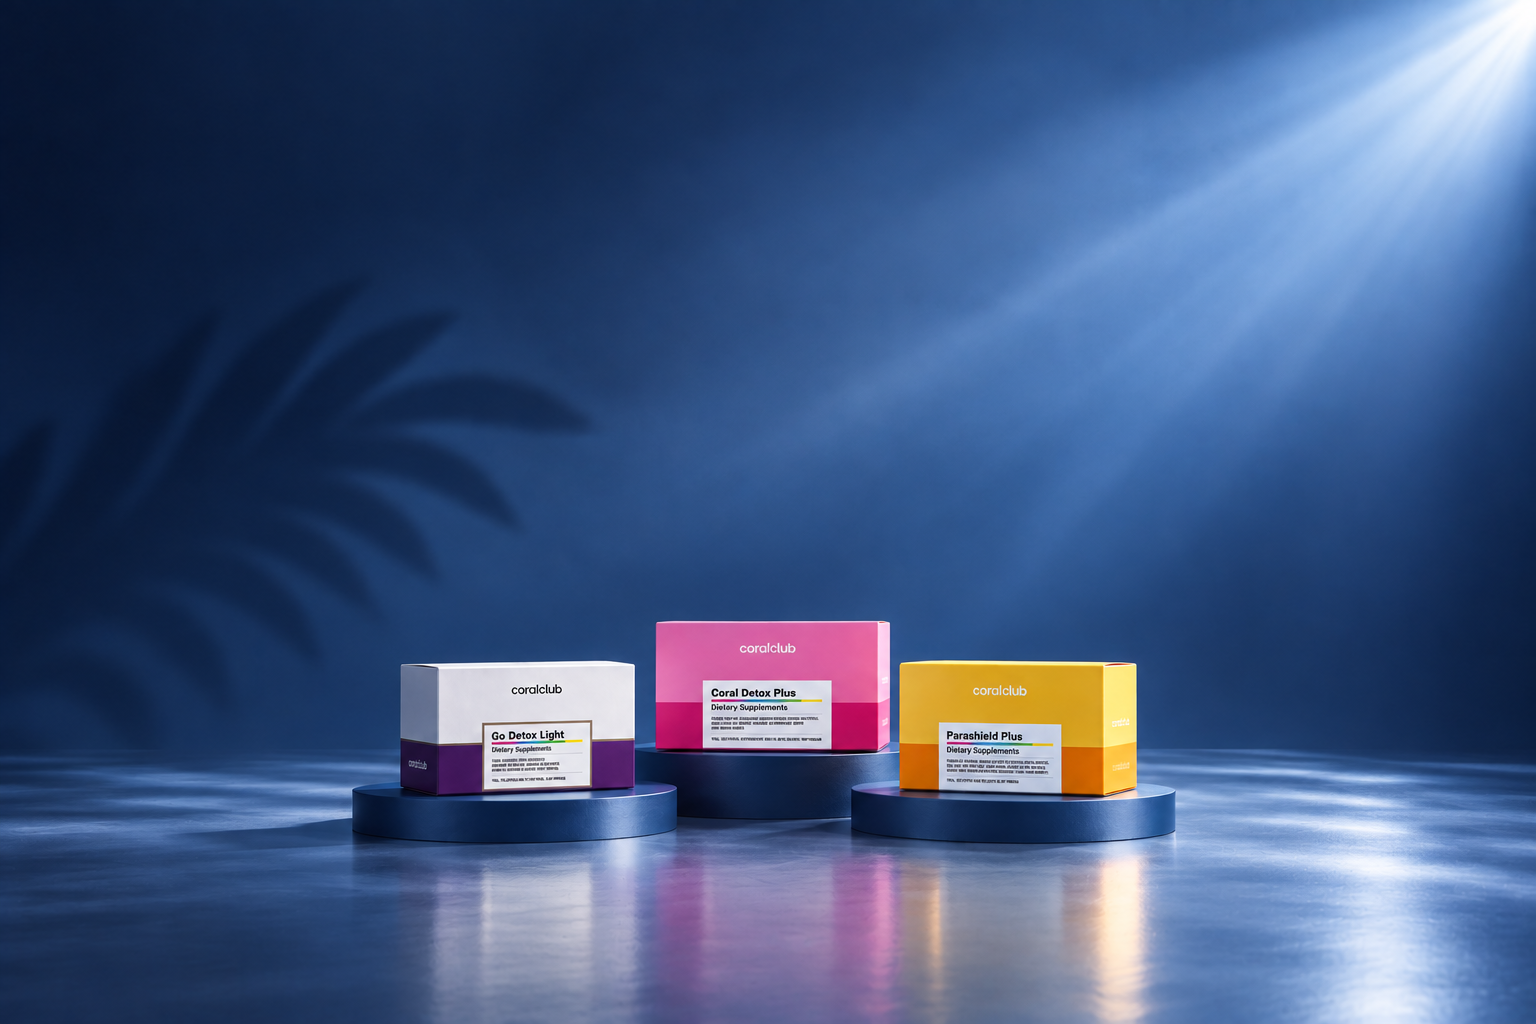
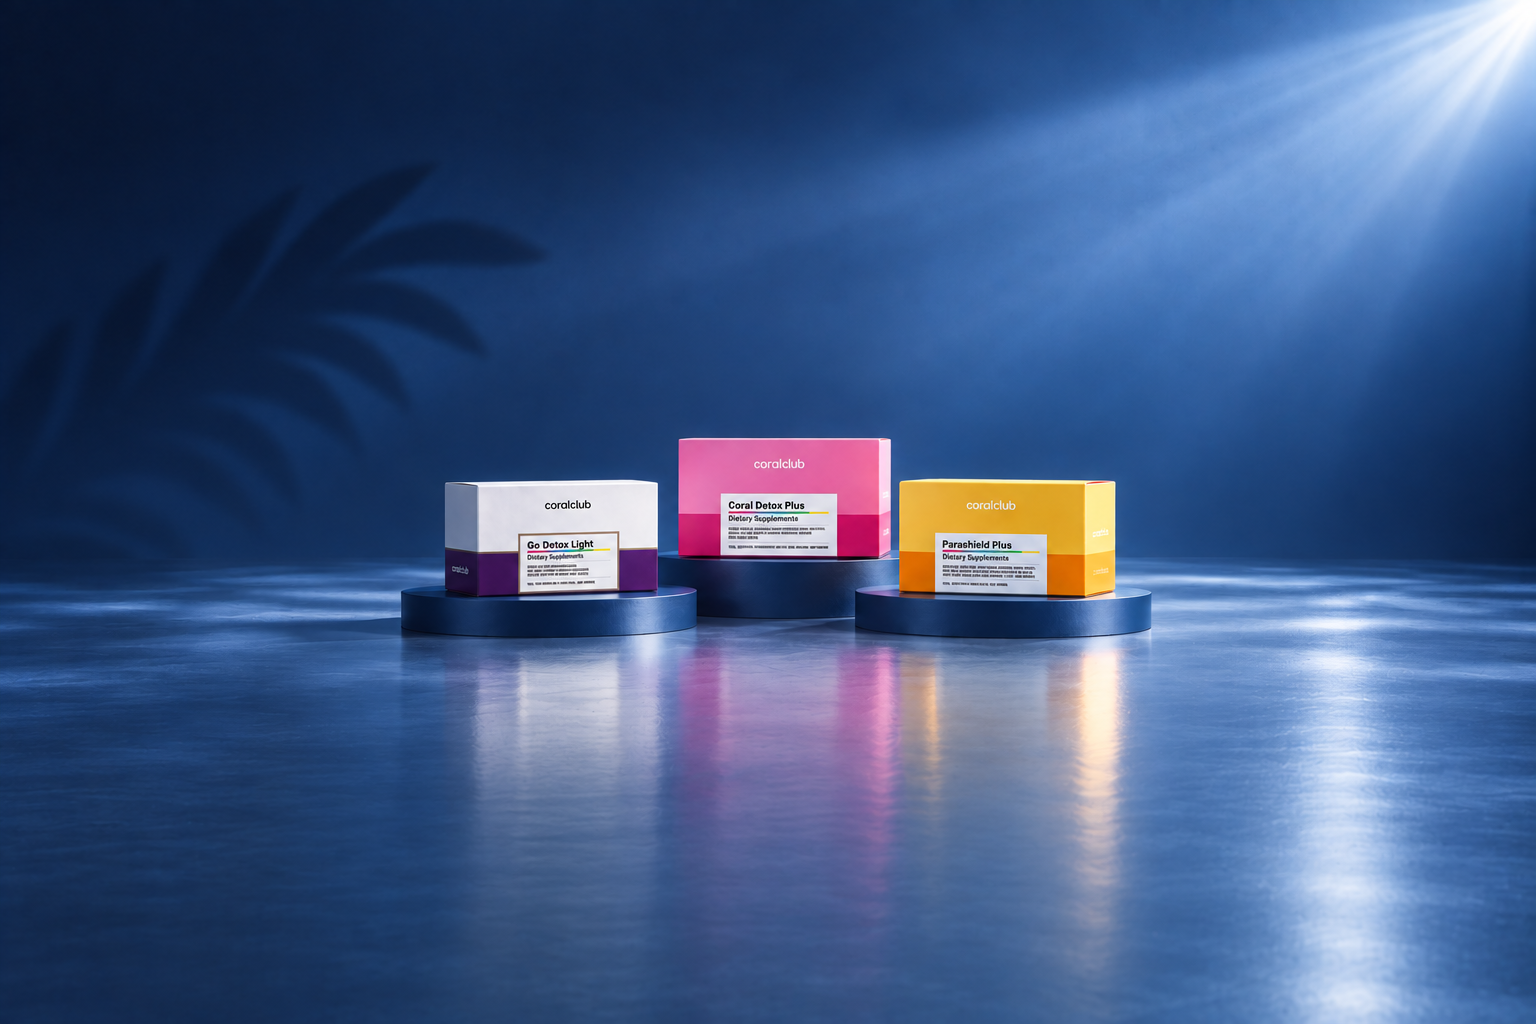
Hero: swipe between phases + dot indicators under the CTA
- Hero is now a client component with an optional `nav` prop: horizontal
  swipe on the panel moves to the prev/next phase, and a row of dot
  indicators (active dot elongated) sits under the CTA; dots are tappable.
- HomeView passes nav wired to usePhase().
- Re-copy img/hero2.png -> public/images/hero-restart.png (?v=2).

diff --git a/src/components/organisms/Hero.tsx b/src/components/organisms/Hero.tsx
@@ -1,4 +1,6 @@
-import type { ReactNode } from "react";
+"use client";
+
+import { useRef, type ReactNode, type TouchEvent } from "react";
 import Image from "next/image";
 import { BodyLong, Button, Container, Heading } from "@/components/ui";
 import styles from "./Hero.module.css";
@@ -8,22 +10,60 @@ export type HeroImage = {
   alt: string;
 };
 
+export type HeroNav = {
+  /** Total number of phases. */
+  count: number;
+  /** Index of the phase currently shown. */
+  activeIndex: number;
+  /** Jump to a phase by index. */
+  onSelect: (index: number) => void;
+};
+
 export type HeroProps = {
   title: ReactNode;
   body: ReactNode;
   /** Fills the panel as its background. */
   image: HeroImage;
   cta: { label: string; href: string };
+  /**
+   * When set, a horizontal swipe on the panel moves between phases and dot
+   * indicators appear under the CTA.
+   */
+  nav?: HeroNav;
 };
+
+const SWIPE_MIN = 44;
 
 /**
  * Hero — a panel whose background is the product photo, with white copy and
- * the primary call to action over it. Uses the base corner radius on the
- * bottom edge. Pair it with <SiteHeader /> above.
+ * the primary call to action over it. Pair it with <SiteHeader /> above.
+ * With `nav`, swipe left/right (or tap a dot) to change phase.
  */
-export function Hero({ title, body, image, cta }: HeroProps) {
+export function Hero({ title, body, image, cta, nav }: HeroProps) {
+  const start = useRef<{ x: number; y: number } | null>(null);
+
+  const onTouchStart = (e: TouchEvent) => {
+    const t = e.touches[0];
+    start.current = { x: t.clientX, y: t.clientY };
+  };
+
+  const onTouchEnd = (e: TouchEvent) => {
+    if (!nav || !start.current) return;
+    const t = e.changedTouches[0];
+    const dx = t.clientX - start.current.x;
+    const dy = t.clientY - start.current.y;
+    start.current = null;
+    if (Math.abs(dx) < SWIPE_MIN || Math.abs(dx) < Math.abs(dy) * 1.4) return;
+    const next = nav.activeIndex + (dx < 0 ? 1 : -1);
+    if (next >= 0 && next < nav.count) nav.onSelect(next);
+  };
+
   return (
-    <section className={styles.panel}>
+    <section
+      className={styles.panel}
+      onTouchStart={nav ? onTouchStart : undefined}
+      onTouchEnd={nav ? onTouchEnd : undefined}
+    >
       <Image
         className={styles.bg}
         src={image.src}
@@ -51,6 +91,24 @@ export function Hero({ title, body, image, cta }: HeroProps) {
           >
             {cta.label}
           </Button>
+
+          {nav && nav.count > 1 && (
+            <div className={styles.dots} role="tablist" aria-label="Phase">
+              {Array.from({ length: nav.count }).map((_, i) => (
+                <button
+                  key={i}
+                  type="button"
+                  role="tab"
+                  aria-selected={i === nav.activeIndex}
+                  aria-label={`Phase ${i + 1}`}
+                  className={`${styles.dot} ${
+                    i === nav.activeIndex ? styles.dotOn : ""
+                  }`}
+                  onClick={() => nav.onSelect(i)}
+                />
+              ))}
+            </div>
+          )}
         </Container>
       </div>
     </section>

diff --git a/src/components/organisms/HomeView.tsx b/src/components/organisms/HomeView.tsx
@@ -54,8 +54,9 @@ function Reels({ content }: { content: ReelsContent }) {
 }
 
 function HomeContent({ phases, domains, seriesById }: HomeViewProps) {
-  const { phase } = usePhase();
+  const { phase, setPhase } = usePhase();
   const c = HOME_CONTENT[phase];
+  const phaseIds = phases.map((p) => p.id);
 
   return (
     <main>
@@ -68,6 +69,14 @@ function HomeContent({ phases, domains, seriesById }: HomeViewProps) {
           body={paras(c.hero.body)}
           image={c.hero.image}
           cta={c.hero.cta}
+          nav={{
+            count: phaseIds.length,
+            activeIndex: phaseIds.indexOf(phase),
+            onSelect: (i) => {
+              const id = phaseIds[i];
+              if (id) setPhase(id);
+            },
+          }}
         />
       </div>
 

diff --git a/src/components/organisms/Hero.module.css b/src/components/organisms/Hero.module.css
@@ -49,6 +49,31 @@
   border-color: rgba(255, 255, 255, 0.24);
 }
 
+/* phase indicator dots, under the CTA */
+.dots {
+  margin-top: var(--space-16);
+  display: flex;
+  justify-content: center;
+  gap: var(--space-8);
+}
+.dot {
+  width: 8px;
+  height: 8px;
+  border-radius: var(--radius-pill);
+  background: rgba(255, 255, 255, 0.35);
+  transition:
+    width 0.2s var(--ease-standard),
+    background-color 0.2s var(--ease-standard);
+}
+.dotOn {
+  width: 22px;
+  background: #ffffff;
+}
+.dot:focus-visible {
+  outline: 2px solid #ffffff;
+  outline-offset: 3px;
+}
+
 /* ---------- Wide screens ---------- */
 @media (min-width: 768px) {
   .panel {

diff --git a/src/content/home.tsx b/src/content/home.tsx
@@ -119,7 +119,7 @@ const RESTART: HomePhase = {
     ],
     cta: { label: "Start the reset", href: "/quiz" },
     image: {
-      src: `${asset("/images/hero-restart.png")}?v=1`,
+      src: `${asset("/images/hero-restart.png")}?v=2`,
       alt: "Coral Detox Plus, ParaShield and Colo-Vada boxes on studio podiums",
     },
   },
